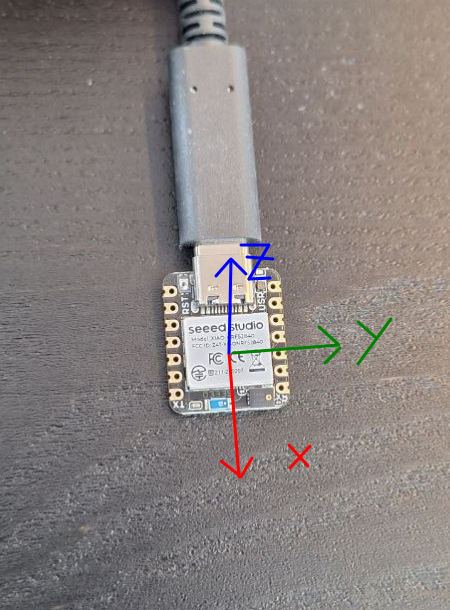
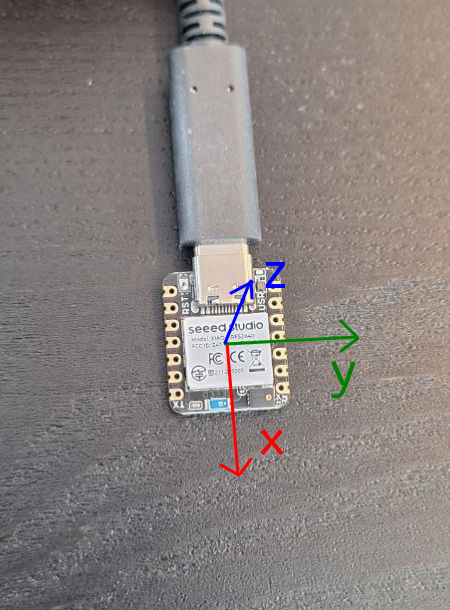
Update readme and picture

Changed region(s): [[0.4667, 0.3738, 0.8711, 0.7787], [0.56, 0.6852, 0.6844, 0.7787]]

diff --git a/README.md b/README.md
@@ -5,6 +5,11 @@ You can find here:
 - the C++ code for the Linux OS that reads the data sent by the Xiao board, found in the ```readIMU_cppCode```
 - an example of how to use the code, found in the ```example``` folder
 
+## Axes
+Axes in the IMU are set as follows:
+
+![Axes in the IMU](IMU_axes.png)
+
 ## Xiao board's Arduino sketch
 The used board is the Seeed XIAO BLE Sense - nRF52840, found in the ```Seeed nRF52840 mbed-enabled boards``` board package, which can be found here: https://files.seeedstudio.com/arduino/package_seeeduino_boards_index.json
 
@@ -19,7 +24,7 @@ To use the code, you simply need to add the 2 files in your project, and include
 You need to create an instance of the ```IMU``` class, which automatically opens the port, creates a thread and starts continuously reading the incoming data. <br /> 
 That data can be fetched by the main thread using the ```IMU::getValues()``` method. 
 
-The acceleration values are in [m/s²], while the angular velocities in [deg/s]. You can find the drawing of the IMU's axes in the top folder of this repository.
+The acceleration values are in [m/s²], while the angular velocities in [deg/s].
 
 **Speed notes** <br /> 
 The code is very quick, however the data sending is very slow (a packet received every 7ms). <br /> 
